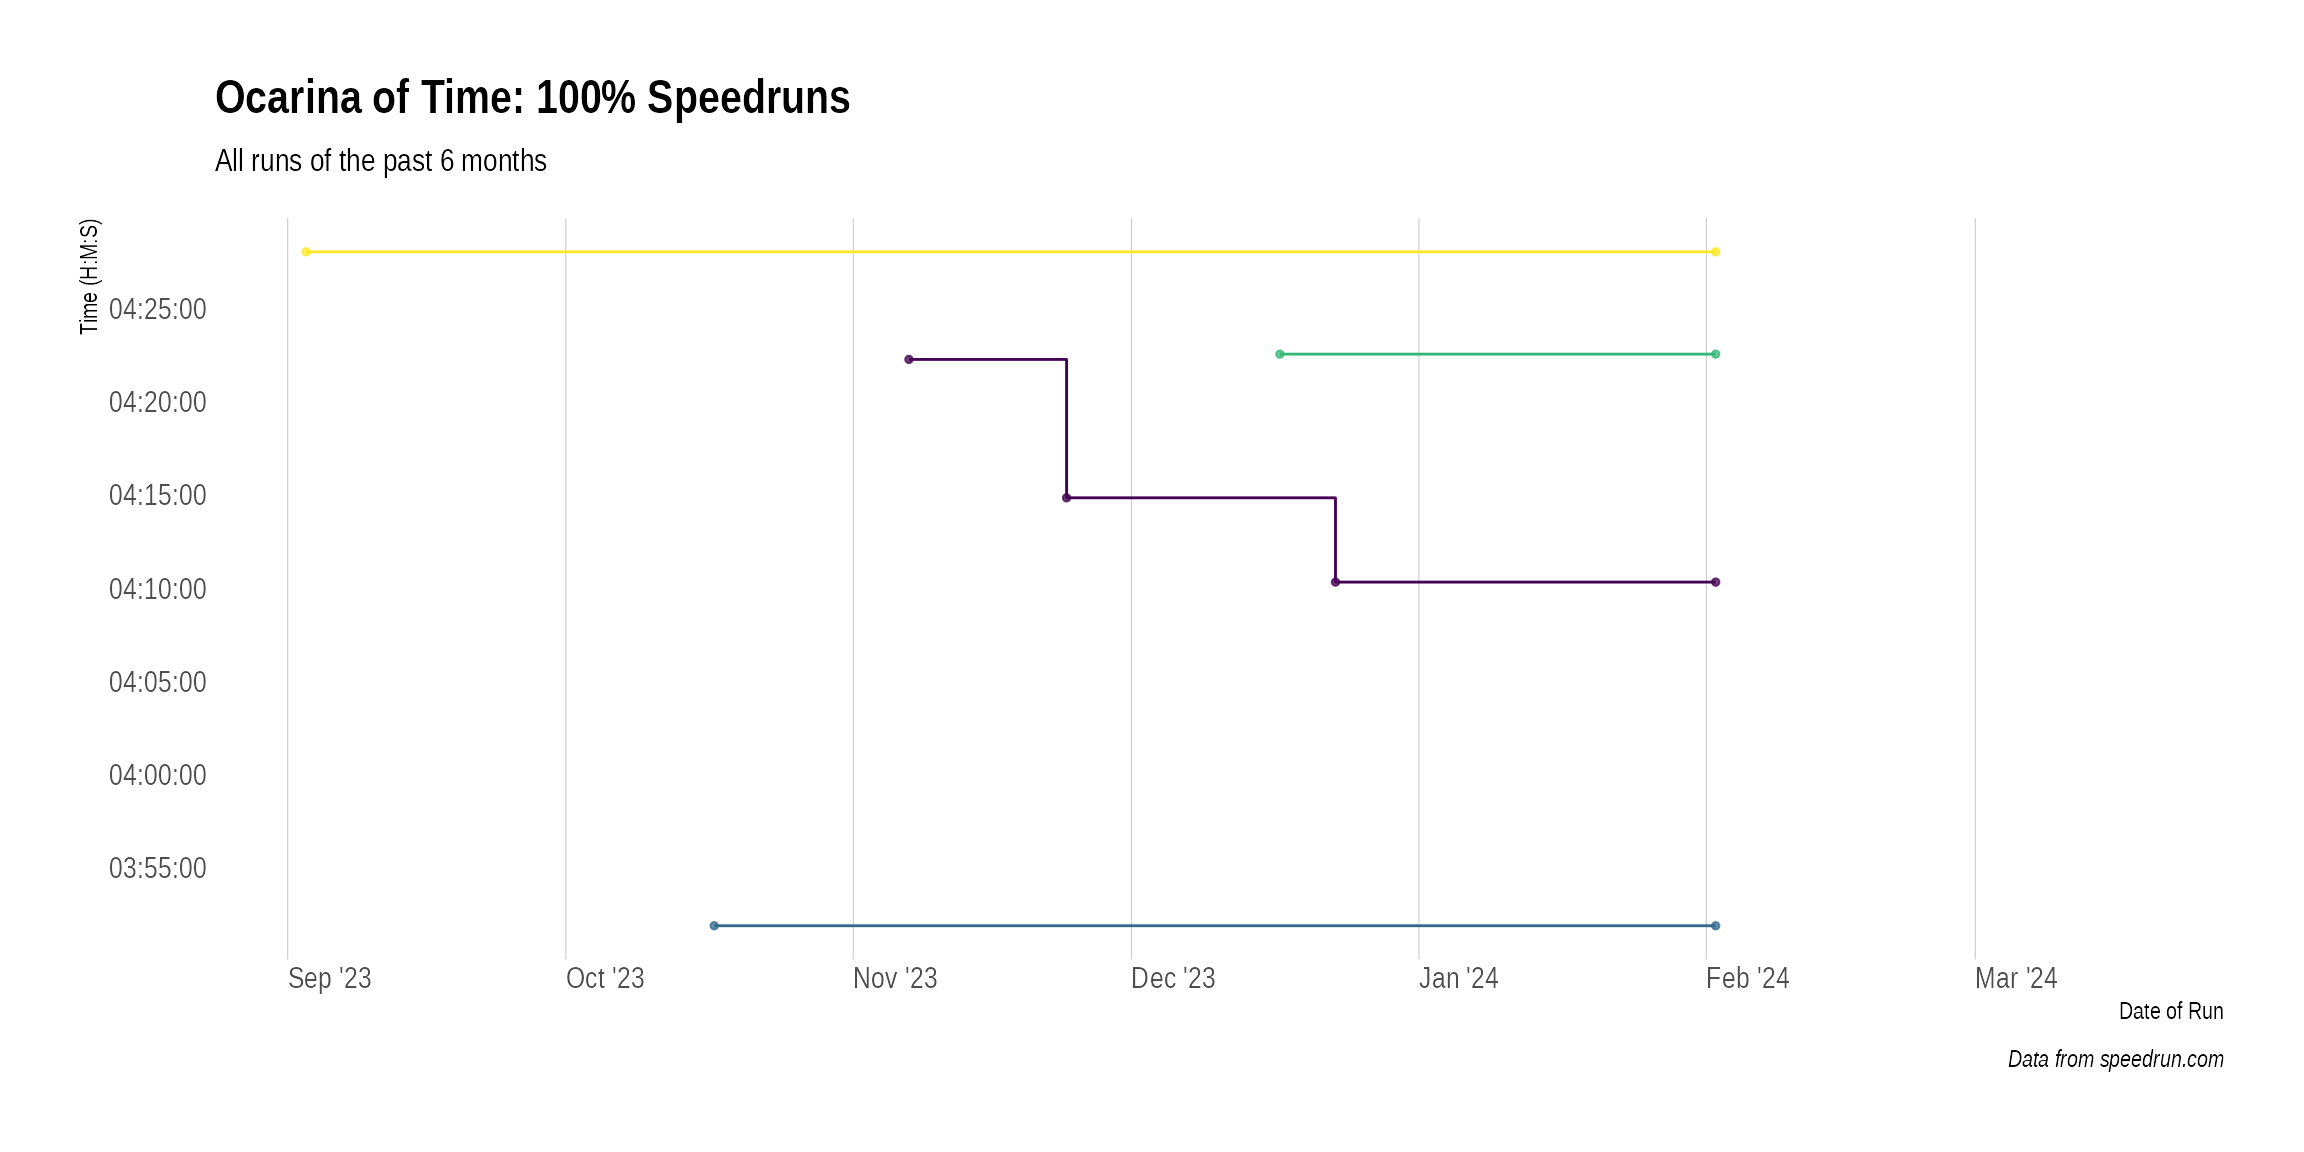
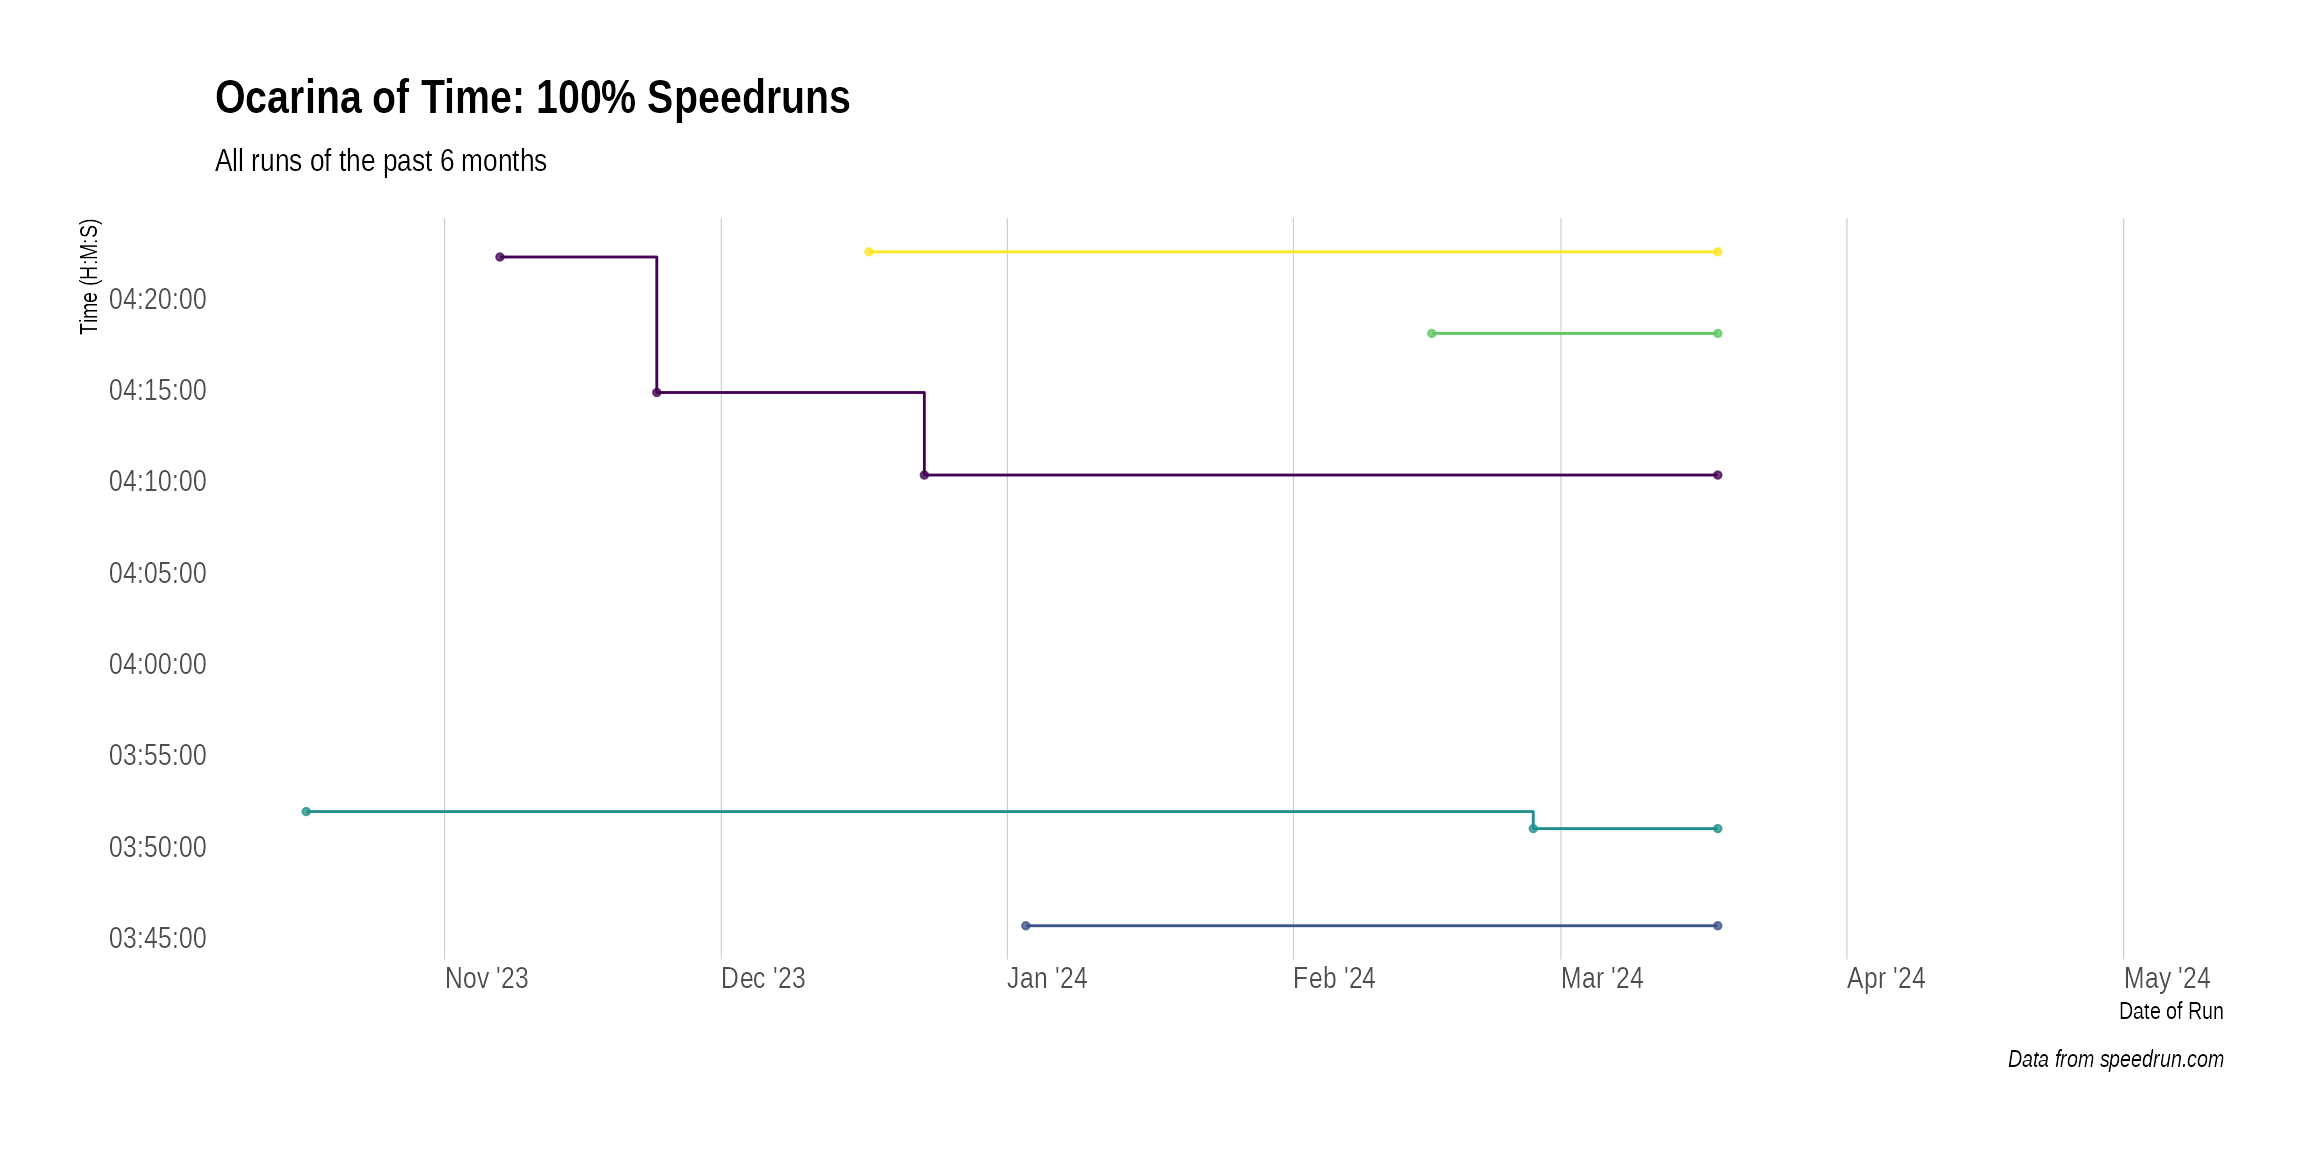
Deploying to gh-pages from @ jemus42/speedrunr@2d0bc0bf151dc6d8b6f8441582e88634e121022b 🚀

diff --git a/articles/ocarina-of-time-100.html b/articles/ocarina-of-time-100.html
@@ -75,7 +75,7 @@
       <img src="" class="logo" alt=""><h1>Ocarina of Time 100%</h1>
                         <h4 data-toc-skip class="author">Lukas Burk</h4>
             
-            <h4 data-toc-skip class="date">2024-02-02</h4>
+            <h4 data-toc-skip class="date">2024-03-18</h4>
       
       <small class="dont-index">Source: <a href="https://github.com/jemus42/speedrunr/blob/HEAD/vignettes/ocarina-of-time-100.Rmd" class="external-link"><code>vignettes/ocarina-of-time-100.Rmd</code></a></small>
       <div class="d-none name"><code>ocarina-of-time-100.Rmd</code></div>
@@ -133,30 +133,30 @@
 <em>all</em> the runs.</p>
 <div class="sourceCode" id="cb4"><pre class="downlit sourceCode r">
 <code class="sourceCode R"><span><span class="fu"><a href="https://rdrr.io/r/utils/str.html" class="external-link">str</a></span><span class="op">(</span><span class="va">oot100</span><span class="op">)</span></span>
-<span><span class="co">#&gt; tibble [962 × 22] (S3: tbl_df/tbl/data.frame)</span></span>
-<span><span class="co">#&gt;  $ id             : chr [1:962] "me0werqz" "zxwwll5m" "yoodd21y" "zg8dd4jy" ...</span></span>
-<span><span class="co">#&gt;  $ weblink        : chr [1:962] "https://www.speedrun.com/oot/run/me0werqz" "https://www.speedrun.com/oot/run/zxwwll5m" "https://www.speedrun.com/oot/run/yoodd21y" "https://www.speedrun.com/oot/run/zg8dd4jy" ...</span></span>
-<span><span class="co">#&gt;  $ game           : chr [1:962] "j1l9qz1g" "j1l9qz1g" "j1l9qz1g" "j1l9qz1g" ...</span></span>
-<span><span class="co">#&gt;  $ level          : logi [1:962] NA NA NA NA NA NA ...</span></span>
-<span><span class="co">#&gt;  $ category       : chr [1:962] "q255jw2o" "q255jw2o" "q255jw2o" "q255jw2o" ...</span></span>
-<span><span class="co">#&gt;  $ videos         : chr [1:962] "https://www.twitch.tv/videos/2012632378" "https://www.youtube.com/watch?v=k_bohYMjRWc&amp;ab_channel=Elbauldedarker" "https://www.twitch.tv/videos/1986744557" "https://www.twitch.tv/videos/1960177252" ...</span></span>
-<span><span class="co">#&gt;  $ status         : chr [1:962] "verified" "verified" "verified" "verified" ...</span></span>
-<span><span class="co">#&gt;  $ comment        : chr [1:962] "Late game sucks =)" "[Retimed to 4:22:32 -LG]" NA "[Retimed to 4:58:09 -LG]" ...</span></span>
-<span><span class="co">#&gt;  $ player_id      : chr [1:962] "dx354dqj" "jmpvmyej" "dx354dqj" "8rplr3wj" ...</span></span>
-<span><span class="co">#&gt;  $ player_url     : chr [1:962] "https://www.speedrun.com/user/Smaugy" "https://www.speedrun.com/user/darkerandroid" "https://www.speedrun.com/user/Smaugy" "https://www.speedrun.com/user/Bancakes" ...</span></span>
-<span><span class="co">#&gt;  $ player_name    : chr [1:962] "Smaugy" "darkerandroid" "Smaugy" "Bancakes" ...</span></span>
-<span><span class="co">#&gt;  $ player_role    : chr [1:962] "user" "user" "user" "user" ...</span></span>
-<span><span class="co">#&gt;  $ player_signup  : POSIXct[1:962], format: "2015-07-23 13:20:40" "2021-03-19 20:51:49" ...</span></span>
-<span><span class="co">#&gt;  $ date           : Date[1:962], format: "2023-12-23" "2023-12-17" ...</span></span>
-<span><span class="co">#&gt;  $ submitted      : POSIXct[1:962], format: "2023-12-24 11:32:19" "2023-12-17 06:58:22" ...</span></span>
-<span><span class="co">#&gt;  $ time_primary   : num [1:962] 15019 15752 15290 17889 15735 ...</span></span>
-<span><span class="co">#&gt;  $ time_realtime  : num [1:962] 15019 15752 15290 17889 15735 ...</span></span>
-<span><span class="co">#&gt;  $ time_ingame    : int [1:962] 0 0 0 0 0 0 0 0 0 0 ...</span></span>
-<span><span class="co">#&gt;  $ time_hms       : 'hms' num [1:962] 04:10:19 04:22:32 04:14:50 04:58:09 ...</span></span>
+<span><span class="co">#&gt; tibble [967 × 22] (S3: tbl_df/tbl/data.frame)</span></span>
+<span><span class="co">#&gt;  $ id             : chr [1:967] "z195w6wm" "y8w1qk1y" "yjo4jvoz" "y9jog0nm" ...</span></span>
+<span><span class="co">#&gt;  $ weblink        : chr [1:967] "https://www.speedrun.com/oot/run/z195w6wm" "https://www.speedrun.com/oot/run/y8w1qk1y" "https://www.speedrun.com/oot/run/yjo4jvoz" "https://www.speedrun.com/oot/run/y9jog0nm" ...</span></span>
+<span><span class="co">#&gt;  $ game           : chr [1:967] "j1l9qz1g" "j1l9qz1g" "j1l9qz1g" "j1l9qz1g" ...</span></span>
+<span><span class="co">#&gt;  $ level          : logi [1:967] NA NA NA NA NA NA ...</span></span>
+<span><span class="co">#&gt;  $ category       : chr [1:967] "q255jw2o" "q255jw2o" "q255jw2o" "q255jw2o" ...</span></span>
+<span><span class="co">#&gt;  $ videos         : chr [1:967] "https://www.twitch.tv/videos/2089115687" "https://www.youtube.com/watch?v=75xbUuc3Q0U" "https://www.twitch.tv/videos/2071757626" "https://www.youtube.com/watch?v=TAsaFzVxeE4" ...</span></span>
+<span><span class="co">#&gt;  $ status         : chr [1:967] "verified" "verified" "verified" "verified" ...</span></span>
+<span><span class="co">#&gt;  $ comment        : chr [1:967] "[Retimed to 4:58:16 -LG]" "4th try dampe" "[Retimed to 5:14:29 -LG]" NA ...</span></span>
+<span><span class="co">#&gt;  $ player_id      : chr [1:967] "jn95rndx" "v8l62g78" "jn95rndx" "8g516wyj" ...</span></span>
+<span><span class="co">#&gt;  $ player_url     : chr [1:967] "https://www.speedrun.com/user/vaho_66" "https://www.speedrun.com/user/EricDaCleric" "https://www.speedrun.com/user/vaho_66" "https://www.speedrun.com/user/EdenSugar" ...</span></span>
+<span><span class="co">#&gt;  $ player_name    : chr [1:967] "vaho_66" "EricDaCleric" "vaho_66" "EdenSugar" ...</span></span>
+<span><span class="co">#&gt;  $ player_role    : chr [1:967] "user" "user" "user" "user" ...</span></span>
+<span><span class="co">#&gt;  $ player_signup  : POSIXct[1:967], format: "2021-09-12 18:29:50" "2017-07-13 02:45:16" ...</span></span>
+<span><span class="co">#&gt;  $ date           : Date[1:967], format: "2024-03-12" "2024-02-27" ...</span></span>
+<span><span class="co">#&gt;  $ submitted      : POSIXct[1:967], format: "2024-03-13 00:15:15" "2024-03-01 07:47:04" ...</span></span>
+<span><span class="co">#&gt;  $ time_primary   : num [1:967] 17896 13858 18869 15484 13539 ...</span></span>
+<span><span class="co">#&gt;  $ time_realtime  : num [1:967] 17896 13858 18869 15484 13539 ...</span></span>
+<span><span class="co">#&gt;  $ time_ingame    : int [1:967] 0 0 0 0 0 0 0 0 0 0 ...</span></span>
+<span><span class="co">#&gt;  $ time_hms       : 'hms' num [1:967] 04:58:16 03:50:58 05:14:29 04:18:04 ...</span></span>
 <span><span class="co">#&gt;   ..- attr(*, "units")= chr "secs"</span></span>
-<span><span class="co">#&gt;  $ system_platform: chr [1:962] "nzelreqp" "nzelreqp" "nzelreqp" "nzelreqp" ...</span></span>
-<span><span class="co">#&gt;  $ system_emulated: logi [1:962] FALSE FALSE FALSE FALSE FALSE FALSE ...</span></span>
-<span><span class="co">#&gt;  $ system_region  : chr [1:962] "o316x197" "o316x197" "o316x197" "o316x197" ...</span></span></code></pre></div>
+<span><span class="co">#&gt;  $ system_platform: chr [1:967] "nzelreqp" "nzelreqp" "nzelreqp" "nzelreqp" ...</span></span>
+<span><span class="co">#&gt;  $ system_emulated: logi [1:967] FALSE FALSE FALSE FALSE FALSE FALSE ...</span></span>
+<span><span class="co">#&gt;  $ system_region  : chr [1:967] "o316x197" "o316x197" "o316x197" "o316x197" ...</span></span></code></pre></div>
 <p>We want some additional data:</p>
 <div class="sourceCode" id="cb5"><pre class="downlit sourceCode r">
 <code class="sourceCode R"><span><span class="va">oot100</span> <span class="op">&lt;-</span> <span class="va">oot100</span> <span class="op"><a href="https://magrittr.tidyverse.org/reference/pipe.html" class="external-link">%&gt;%</a></span></span>
@@ -403,7 +403,7 @@ highlighted records:</p>
 <div class="sourceCode" id="cb6"><pre class="downlit sourceCode r">
 <code class="sourceCode R"><span><span class="kw"><a href="https://rdrr.io/r/base/library.html" class="external-link">library</a></span><span class="op">(</span><span class="va"><a href="https://ggplot2.tidyverse.org" class="external-link">ggplot2</a></span><span class="op">)</span></span>
 <span><span class="kw"><a href="https://rdrr.io/r/base/library.html" class="external-link">library</a></span><span class="op">(</span><span class="va"><a href="https://ggrepel.slowkow.com/" class="external-link">ggrepel</a></span><span class="op">)</span></span>
-<span><span class="kw"><a href="https://rdrr.io/r/base/library.html" class="external-link">library</a></span><span class="op">(</span><span class="va"><a href="http://github.com/hrbrmstr/hrbrthemes" class="external-link">hrbrthemes</a></span><span class="op">)</span></span>
+<span><span class="kw"><a href="https://rdrr.io/r/base/library.html" class="external-link">library</a></span><span class="op">(</span><span class="va">hrbrthemes</span><span class="op">)</span></span>
 <span><span class="kw"><a href="https://rdrr.io/r/base/library.html" class="external-link">library</a></span><span class="op">(</span><span class="va"><a href="https://hms.tidyverse.org/" class="external-link">hms</a></span><span class="op">)</span></span>
 <span></span>
 <span><span class="va">oot100</span> <span class="op"><a href="https://magrittr.tidyverse.org/reference/pipe.html" class="external-link">%&gt;%</a></span></span>
@@ -475,14 +475,14 @@ it gets for now.</p>
 <span>           x <span class="op">=</span> <span class="st">"Date of Run"</span>, y <span class="op">=</span> <span class="st">"Time (H:M:S)"</span><span class="op">)</span> <span class="op">+</span></span>
 <span>      <span class="fu"><a href="https://rdrr.io/pkg/hrbrthemes/man/theme_ipsum.html" class="external-link">theme_ipsum</a></span><span class="op">(</span>grid <span class="op">=</span> <span class="st">"X"</span><span class="op">)</span> <span class="op">+</span> <span class="fu"><a href="https://ggplot2.tidyverse.org/reference/theme.html" class="external-link">theme</a></span><span class="op">(</span>axis.text.x <span class="op">=</span> <span class="fu"><a href="https://ggplot2.tidyverse.org/reference/element.html" class="external-link">element_text</a></span><span class="op">(</span>hjust <span class="op">=</span> <span class="fl">0</span><span class="op">)</span><span class="op">)</span></span>
 <span>  <span class="op">}</span></span>
-<span><span class="co">#&gt; Warning: Removed 4 rows containing missing values</span></span>
-<span><span class="co">#&gt; (`geom_label_repel()`).</span></span>
 <span><span class="co">#&gt; Warning: The `guide` argument in `scale_*()` cannot be `FALSE`. This was deprecated in</span></span>
 <span><span class="co">#&gt; ggplot2 3.3.4.</span></span>
 <span><span class="co">#&gt; <span style="color: #00BBBB;">ℹ</span> Please use "none" instead.</span></span>
 <span><span class="co">#&gt; <span style="color: #555555;">This warning is displayed once every 8 hours.</span></span></span>
 <span><span class="co">#&gt; <span style="color: #555555;">Call `lifecycle::last_lifecycle_warnings()` to see where this warning was</span></span></span>
-<span><span class="co">#&gt; <span style="color: #555555;">generated.</span></span></span></code></pre></div>
+<span><span class="co">#&gt; <span style="color: #555555;">generated.</span></span></span>
+<span><span class="co">#&gt; Warning: Removed 5 rows containing missing values or values outside the scale range</span></span>
+<span><span class="co">#&gt; (`geom_label_repel()`).</span></span></code></pre></div>
 <p><img src="ocarina-of-time-100_files/figure-html/oot_100_recents-1.png" width="1152"></p>
 </div>
   </main><aside class="col-md-3"><nav id="toc"><h2>On this page</h2>

diff --git a/index.html b/index.html
@@ -537,6 +537,7 @@ Let’s get started:</p>
 <li><a href="https://cran.r-project.org/package=speedrunr" class="external-link"><img src="https://www.r-pkg.org/badges/version/speedrunr" alt="CRAN status"></a></li>
 <li><a href="https://github.com/jemus42/speedrunr/releases" class="external-link"><img src="https://img.shields.io/github/release/jemus42/speedrunr.svg?logo=GitHub" alt="GitHub release"></a></li>
 <li><a href="https://github.com/jemus42/speedrunr/commits/master" class="external-link"><img src="https://img.shields.io/github/last-commit/jemus42/speedrunr/master.svg?logo=GithUb" alt="GitHub last commit (master)"></a></li>
+<li><a href="http://unmaintained.tech/" class="external-link"><img src="http://unmaintained.tech/badge.svg" alt="No Maintenance Intended"></a></li>
 </ul>
 </div>
 
